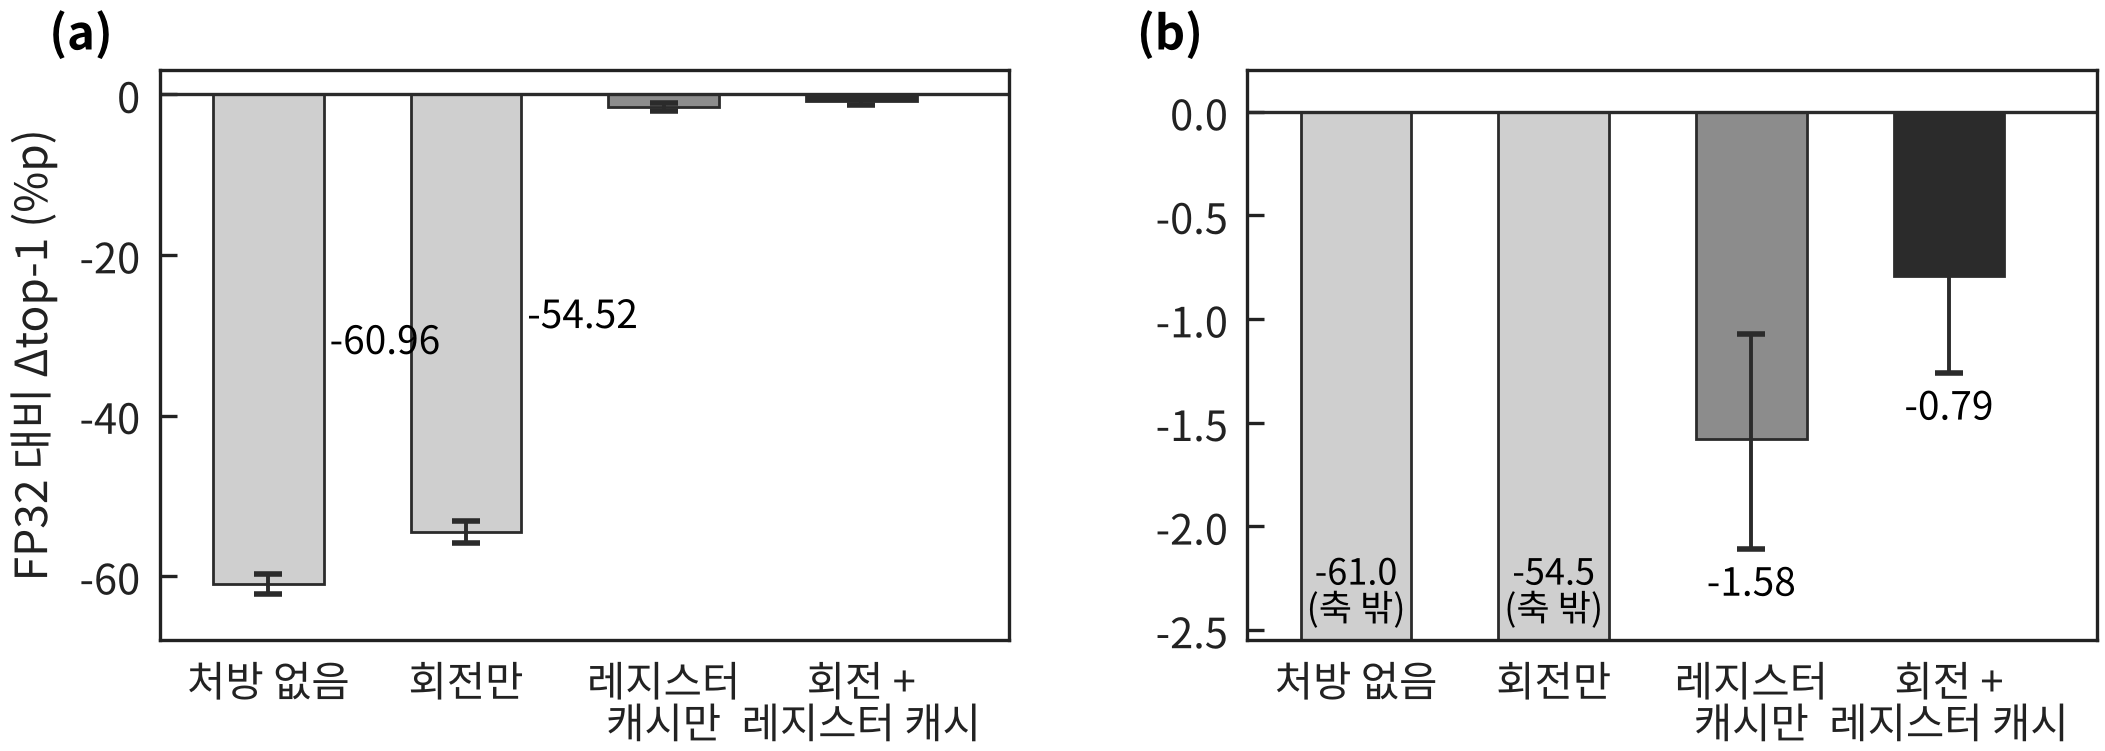
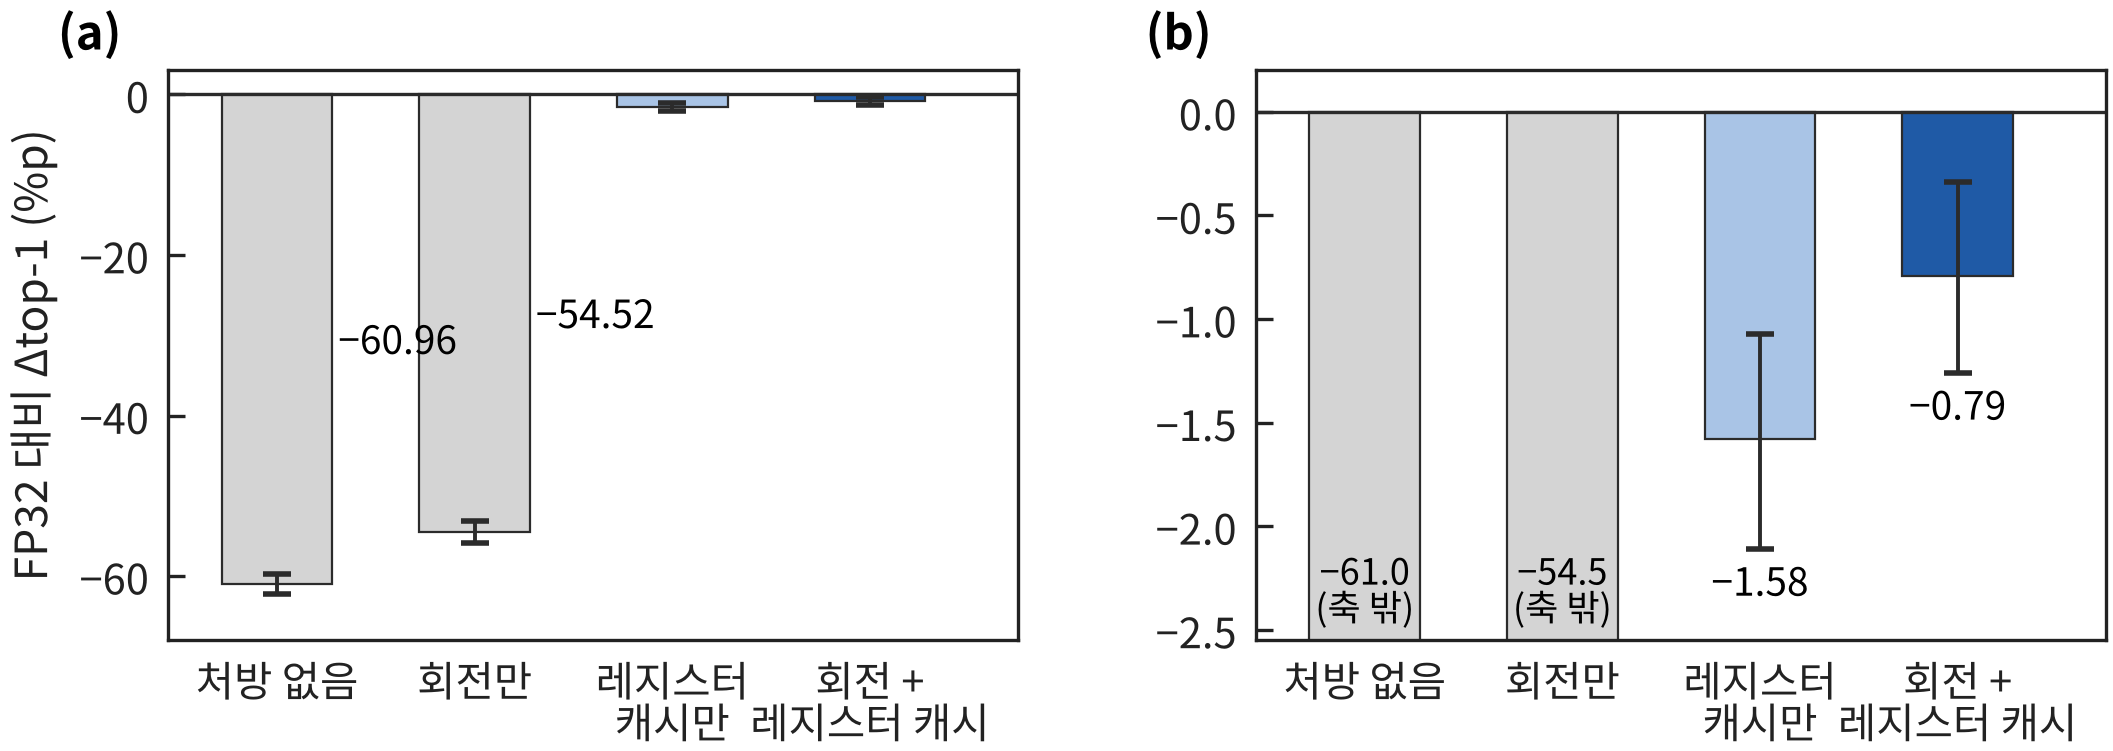
siglip2: 보고서 v13 그림 색 체계(우리=파랑, 문제·대조=주황, 기준=회색), 그림 4 사분면 형식
Claude-Session: https://claude.ai/code/session_01RaEAtofp3spvCsebtgT3MF

diff --git a/siglip2/scripts/make_figs_paper_v13.py b/siglip2/scripts/make_figs_paper_v13.py
@@ -2,7 +2,8 @@
 
 - 값: figs_data.json(F1·F2), figs_data_b32.json(F3b·F5) — make_report_figs*.py가 원자료에서 뽑아 둔 값 그대로
 - 형식: 본문 폭(6.25 in)에 100%로 넣는 크기로 그려서 글자가 본문과 비슷한 크기(8 pt)로 보이게 한다.
-  그림 안 제목은 없고(캡션이 대신함), 패널은 (a)(b), 색은 회색 계열 + 강조색 하나, 눈금은 안쪽.
+  그림 안 제목은 없고(캡션이 대신함), 패널은 (a)(b), 눈금은 안쪽.
+  색: 우리 방법 = 파랑, 문제·대조 = 주황, 기준(처방 없음·공개 HEF) = 회색. 네 그림에서 같은 뜻에 같은 색을 쓴다.
 사용: python siglip2/scripts/make_figs_paper_v13.py → siglip2/docs/figs/F{1,2,3,4}_paper.png
 """
 import json
@@ -16,14 +17,15 @@ FIGS = Path(__file__).resolve().parents[1] / "docs" / "figs"
 W = 6.25  # 본문 폭 (inch)
 plt.rcParams.update({
     "font.family": ["Malgun Gothic", "Noto Sans CJK KR", "AppleGothic", "NanumGothic", "DejaVu Sans"],
-    "axes.unicode_minus": False, "font.size": 8, "axes.labelsize": 8, "xtick.labelsize": 7.5, "ytick.labelsize": 7.5,
+    "axes.unicode_minus": True, "font.size": 8, "axes.labelsize": 8, "xtick.labelsize": 7.5, "ytick.labelsize": 7.5,
     "legend.fontsize": 7.5, "axes.linewidth": 0.6, "xtick.major.width": 0.6, "ytick.major.width": 0.6,
     "xtick.direction": "in", "ytick.direction": "in", "xtick.major.size": 3, "ytick.major.size": 3,
     "axes.spines.top": True, "axes.spines.right": True, "axes.grid": False,
     "axes.edgecolor": "#222222", "axes.labelcolor": "#222222", "xtick.color": "#222222", "ytick.color": "#222222",
     "figure.facecolor": "white", "axes.facecolor": "white", "savefig.dpi": 400, "savefig.bbox": "tight", "savefig.pad_inches": 0.02,
     "legend.frameon": False, "hatch.linewidth": 0.5})
-DARK, MID, LIGHT, ACC = "#2b2b2b", "#8c8c8c", "#cfcfcf", "#c0392b"
+DARK, MID, LIGHT, ACC = "#2b2b2b", "#8c8c8c", "#d4d4d4", "#c8553d"
+BLUE, BLUE_L, ORANGE = "#1f5aa6", "#a9c4e6", "#d9822b"
 
 
 def panel(ax, s, x=-0.10, y=1.02):
@@ -42,8 +44,8 @@ olab = ["QKV", "QKᵀ", "AV", "출력\n투영", "MLP\nfc1", "MLP\nfc2"]
 fig, (a1, a2) = plt.subplots(1, 2, figsize=(W, 1.9), gridspec_kw={"width_ratios": [14, 7.5], "wspace": 0.12})
 for ax, keys, labs in [(a1, blocks, blab), (a2, ops, olab)]:
     v = [s[k] for k in keys]
-    cols = [DARK if x < 0.95 else LIGHT for x in v]
-    ax.bar(range(len(keys)), v, 0.7, color=cols, edgecolor=DARK, linewidth=0.5)
+    cols = [ACC if x < 0.95 else LIGHT for x in v]
+    ax.bar(range(len(keys)), v, 0.7, color=cols, edgecolor=DARK, linewidth=0.4)
     ax.axhline(0.95, color=DARK, lw=0.6, ls=(0, (3, 2)))
     ax.set_xticks(range(len(keys)), labs)
     ax.set_ylim(0, 1.05)
@@ -68,7 +70,7 @@ for ax, ylim in [(a1, (-68, 3)), (a2, (-2.55, 0.2))]:
     y = [t[k][0] for k in keys]
     lo = [t[k][0] - t[k][1][0] for k in keys]
     hi = [t[k][1][1] - t[k][0] for k in keys]
-    ax.bar(range(4), y, 0.56, color=[LIGHT, LIGHT, MID, DARK], edgecolor=DARK, linewidth=0.5)
+    ax.bar(range(4), y, 0.56, color=[LIGHT, LIGHT, BLUE_L, BLUE], edgecolor=DARK, linewidth=0.4)
     ax.errorbar(range(4), y, yerr=[lo, hi], fmt="none", ecolor=DARK, elinewidth=0.7, capsize=2.5)
     ax.axhline(0, color=DARK, lw=0.6)
     ax.set_ylim(*ylim)
@@ -80,11 +82,11 @@ for ax, ylim in [(a1, (-68, 3)), (a2, (-2.55, 0.2))]:
         if ax is a1 and abs(yy) < 5:
             continue                      # 작은 값은 (b)에서 읽는다
         if yy < ylim[0]:
-            ax.text(i, ylim[0] + 0.06, f"{yy:.1f}\n(축 밖)", ha="center", va="bottom", fontsize=6.5)
+            ax.text(i, ylim[0] + 0.06, f"{yy:.1f}\n(축 밖)".replace("-", "−"), ha="center", va="bottom", fontsize=6.5)
         elif ax is a2:
-            ax.text(i, t[k][1][0] - 0.06, f"{yy:.2f}", ha="center", va="top", fontsize=7)
+            ax.text(i, t[k][1][0] - 0.06, f"{yy:.2f}".replace("-", "−"), ha="center", va="top", fontsize=7)
         else:
-            ax.text(i + 0.31, yy * 0.5, f"{yy:.2f}", ha="left", va="center", fontsize=7)
+            ax.text(i + 0.31, yy * 0.5, f"{yy:.2f}".replace("-", "−"), ha="left", va="center", fontsize=7)
 a1.set_ylabel("FP32 대비 Δtop-1 (%p)")
 panel(a1, "(a)", x=-0.13)
 panel(a2, "(b)", x=-0.13)
@@ -101,8 +103,8 @@ fig, ax = plt.subplots(figsize=(W * 0.82, 2.2))
 h = 0.36
 ys = list(range(len(items)))[::-1]
 for y, it in zip(ys, items):
-    for yy, main, other, col, tc in [(y + h / 2, sub, sub2, DARK, "#111111"), (y - h / 2, prev, prev2, LIGHT, "#555555")]:
-        ax.barh(yy, -main[it], h, color=col, edgecolor=DARK, linewidth=0.5)
+    for yy, main, other, col, tc in [(y + h / 2, sub, sub2, BLUE, "#111111"), (y - h / 2, prev, prev2, BLUE_L, "#555555")]:
+        ax.barh(yy, -main[it], h, color=col, edgecolor=DARK, linewidth=0.4)
         ax.plot(-other[it], yy, marker="o", ms=3.6, mfc="white", mec=MID, mew=1.0, ls="none")
         ax.text(max(-main[it], -other[it]) + 1.0, yy, f"{-main[it]:.1f}", va="center", fontsize=7, color=tc)
 ax.set_yticks(ys, ilab)
@@ -111,29 +113,34 @@ ax.set_xlim(0, 85)
 ax.set_xlabel("FP32 대비 감소율 (%, 클수록 좋음)")
 from matplotlib.patches import Patch            # noqa: E402
 from matplotlib.lines import Line2D             # noqa: E402
-ax.legend(handles=[Patch(fc=DARK, ec=DARK, lw=0.5, label="제출 모델 (대표값)"), Patch(fc=LIGHT, ec=DARK, lw=0.5, label="직전 모델(⑥까지)"),
+ax.legend(handles=[Patch(fc=BLUE, ec=DARK, lw=0.4, label="제출 모델 (대표값)"), Patch(fc=BLUE_L, ec=DARK, lw=0.4, label="직전 모델(⑥까지)"),
                    Line2D([], [], marker="o", ms=3.6, mfc="white", mec=MID, mew=1.0, ls="none", label="같은 모델의 다른 실행")],
           loc="lower center", bbox_to_anchor=(0.45, 1.0), ncol=3, handlelength=1.2, columnspacing=1.2, borderaxespad=0.2)
 fig.savefig(FIGS / "F3_paper.png")
 plt.close(fig)
 
-# ---- 그림 4: Hailo-10H 실칩 지연 vs dev 정확도
+# ---- 그림 4: Hailo-10H 실칩 지연 vs dev 정확도 (공개 HEF 기준선으로 나눈 사분면)
 pts = {p["hef"]: p for p in d2["F5"]["points"]}
-spec = [("b32_Z", "Hailo 공개 HEF", "s", "white"), ("b32_GF", "우리 HEF (본선용)", "o", DARK),
-        ("b32_ALL8F", "잔차·패치 경로까지 8비트", "^", MID)]
-fig, ax = plt.subplots(figsize=(W * 0.6, 2.1))
-for k, name, m, fc in spec:
+z = pts["b32_Z"]
+fig, ax = plt.subplots(figsize=(W * 0.7, 2.45))
+ax.axvspan(12.8, z["b1_ms"], ymin=0, ymax=1, color=BLUE, alpha=0.0)
+ax.fill_between([12.8, z["b1_ms"]], z["dev_dtop1"], -0.6, color=BLUE, alpha=0.07, lw=0)
+ax.axvline(z["b1_ms"], color=MID, lw=0.6, ls=(0, (3, 2)))
+ax.axhline(z["dev_dtop1"], color=MID, lw=0.6, ls=(0, (3, 2)))
+ax.text(12.9, -0.72, "공개 HEF보다 빠르고 정확한 영역", fontsize=6.8, color=BLUE, va="top")
+spec = [("b32_Z", "Hailo 공개 HEF", "s", MID, (0.12, 0.0, "left")),
+        ("b32_GF", "우리 HEF (본선용)", "o", BLUE, (0.12, 0.0, "left")),
+        ("b32_ALL8F", "잔차·패치 경로까지 8비트", "^", ORANGE, (0.12, 0.0, "left"))]
+for k, name, m, c, (dx, dy, ha) in spec:
     p = pts[k]
     lo, hi = p["ci95"]
-    ax.errorbar(p["b1_ms"], p["dev_dtop1"], yerr=[[p["dev_dtop1"] - lo], [hi - p["dev_dtop1"]]], fmt=m, ms=5,
-                mfc=fc, mec=DARK, mew=0.8, ecolor=DARK, elinewidth=0.7, capsize=2.5)
-    off = {"b32_Z": (-0.12, 0, "right"), "b32_GF": (0.12, 0, "left"), "b32_ALL8F": (0.12, 0, "left")}[k]
-    ax.text(p["b1_ms"] + off[0], p["dev_dtop1"] + off[1], name, ha=off[2], va="center", fontsize=7)
-ax.annotate("", xy=(13.15, -1.0), xytext=(13.9, -1.7), arrowprops=dict(arrowstyle="->", lw=0.7, color=MID))
-ax.text(13.9, -1.75, "좋은 방향", fontsize=6.5, color="#555555", va="top")
-ax.set_xlim(12.8, 17.6)
+    ax.errorbar(p["b1_ms"], p["dev_dtop1"], yerr=[[p["dev_dtop1"] - lo], [hi - p["dev_dtop1"]]], fmt=m, ms=5.5,
+                mfc=c, mec=DARK, mew=0.6, ecolor=c, elinewidth=0.9, capsize=2.5, zorder=3)
+    ax.text(p["b1_ms"] + dx, p["dev_dtop1"] + dy, f"{name}\n{p['b1_ms']:.2f} ms, {p['dev_dtop1']:+.2f}%p".replace('-', '−'), ha=ha, va="center",
+            fontsize=6.8, color="#222222", linespacing=1.15)
+ax.set_xlim(12.8, 18.4)
 ax.set_ylim(-5.2, -0.6)
-ax.set_xlabel("배치 1 지연 (ms)")
+ax.set_xlabel("배치 1 지연 (ms, 왼쪽이 빠름)")
 ax.set_ylabel("FP32 대비 dev Δtop-1 (%p)")
 fig.savefig(FIGS / "F4_paper.png")
 plt.close(fig)

diff --git a/siglip2/docs/report_prelim_v13.md b/siglip2/docs/report_prelim_v13.md
@@ -134,7 +134,7 @@ v13 (10/29) = v12(docx, 팀 편집본) + v11에서 빠진 재현 정보 복구 +
 
 **2) 어느 블록이 문제인지 찾았다.** 블록 하나만 INT8로 바꾸고 나머지는 FP32로 두는 방식으로 민감도를 쟀다(그림 1). 블록 1~4는 거의 영향이 없었지만 블록 0과 5~11은 하나만 바꿔도 크게 무너졌고, 연산별로 보면 원인은 MLP의 두 번째 행렬곱(fc2)이었다. Hailo 공식 컴파일 설정이 16비트로 남겨 두는 층도 블록 0과 5에 몰려 있다.
 
-![그림 1. 블록(a) 또는 연산 유형(b) 하나만 INT8로 바꿨을 때 FP32 대비 임베딩 코사인 유사도 (dev 6×200장, 고화질 5종). 진한 막대는 0.95 아래|88](F1_paper.png)
+![그림 1. 블록(a) 또는 연산 유형(b) 하나만 INT8로 바꿨을 때 FP32 대비 임베딩 코사인 유사도 (dev 6×200장, 고화질 5종). 주황 막대는 0.95 아래|88](F1_paper.png)
 
 **3) 원인은 특정 토큰의 거대 활성값이었다.** 블록 5의 MLP는 사진 내용과 상관없이 늘 15번 패치 토큰의 몇몇 채널에 아주 큰 값을 썼고, 블록 9에서는 7번 토큰에서 같은 일이 생겼다. 블록 5 출력의 최댓값은 중앙값의 약 990배였다. CLS 토큰이 없는 ViT가 패치 일부를 "register"처럼 쓰는 현상으로 알려져 있다[2][3]. 활성값은 텐서마다 눈금 하나로 양자화하므로, 눈금이 이 큰 값에 맞춰 넓어지면 나머지 값은 거의 0으로 뭉개진다. 블록 5·9의 fc2를 8비트로 만들 때 그 토큰만 빼고 눈금을 정해 보니(디버깅용 fake-quant, 사진 64장) 임베딩 코사인 유사도가 0.997로 거의 돌아왔다. 8비트로도 충분했고, 문제는 눈금이었다.
 
@@ -423,7 +423,7 @@ python scripts/cross_latency.py --no-mem-pattern --out out_speed --mem \
 
 ¹ 16비트로 남긴 것은 패치 경로 3개 층과 잔차 덧셈 26개뿐이다. dev 값은 컴파일 설정 두 줄(B.2의 ⑤)을 넣기 전 구성에서 쟀고, 두 HEF의 출력은 사진 1,200장에서 비트 단위로 같았다. 세 HEF의 지연은 같은 세션에서 쟀다. 우리 HEF 크기는 바탕 FP32 ONNX보다 73.6% 작다(Hailo에는 FP32 실행 경로가 없어 지연은 FP32와 비교하지 않았다).
 
-![그림 4. Hailo-10H 실칩 배치 1 지연과 dev 정확도 (같은 세션, 오차 막대 = 95% 구간)|52](F4_paper.png)
+![그림 4. Hailo-10H 실칩 배치 1 지연과 dev 정확도 (같은 세션, 오차 막대 = 95% 구간)|62](F4_paper.png)
 
 ### B.2 정확도 이득은 어디서 왔나
 
